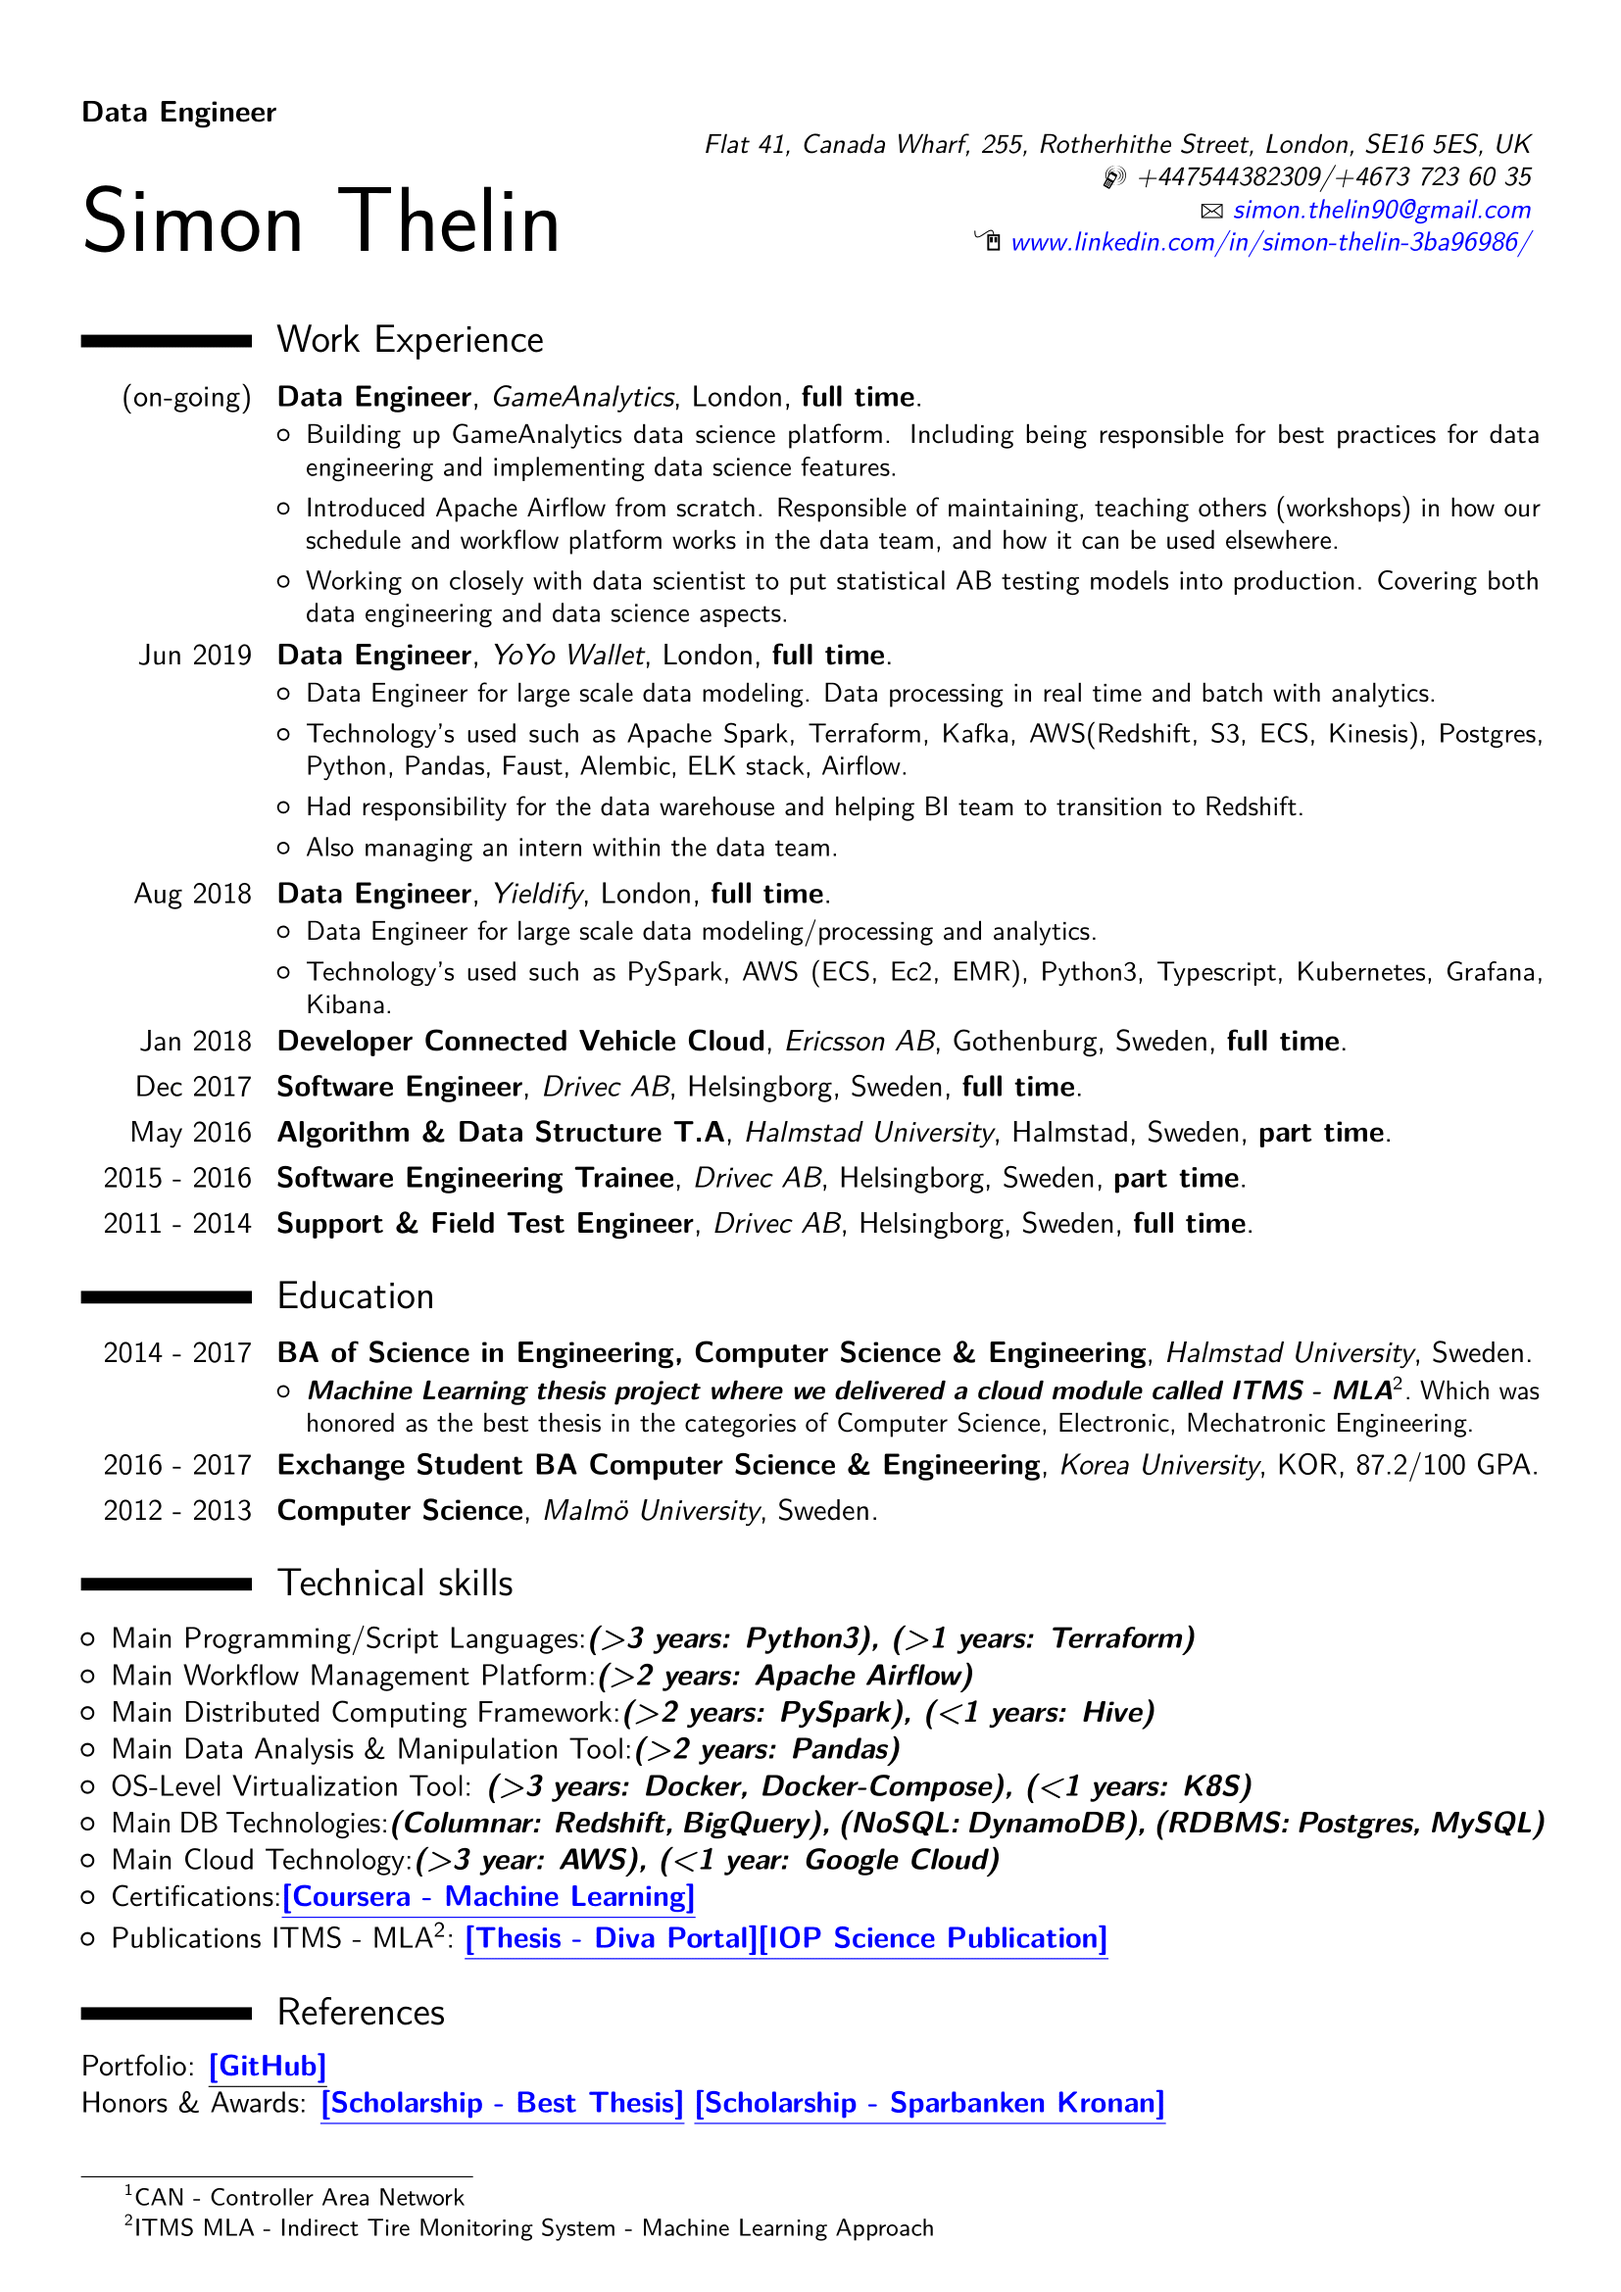
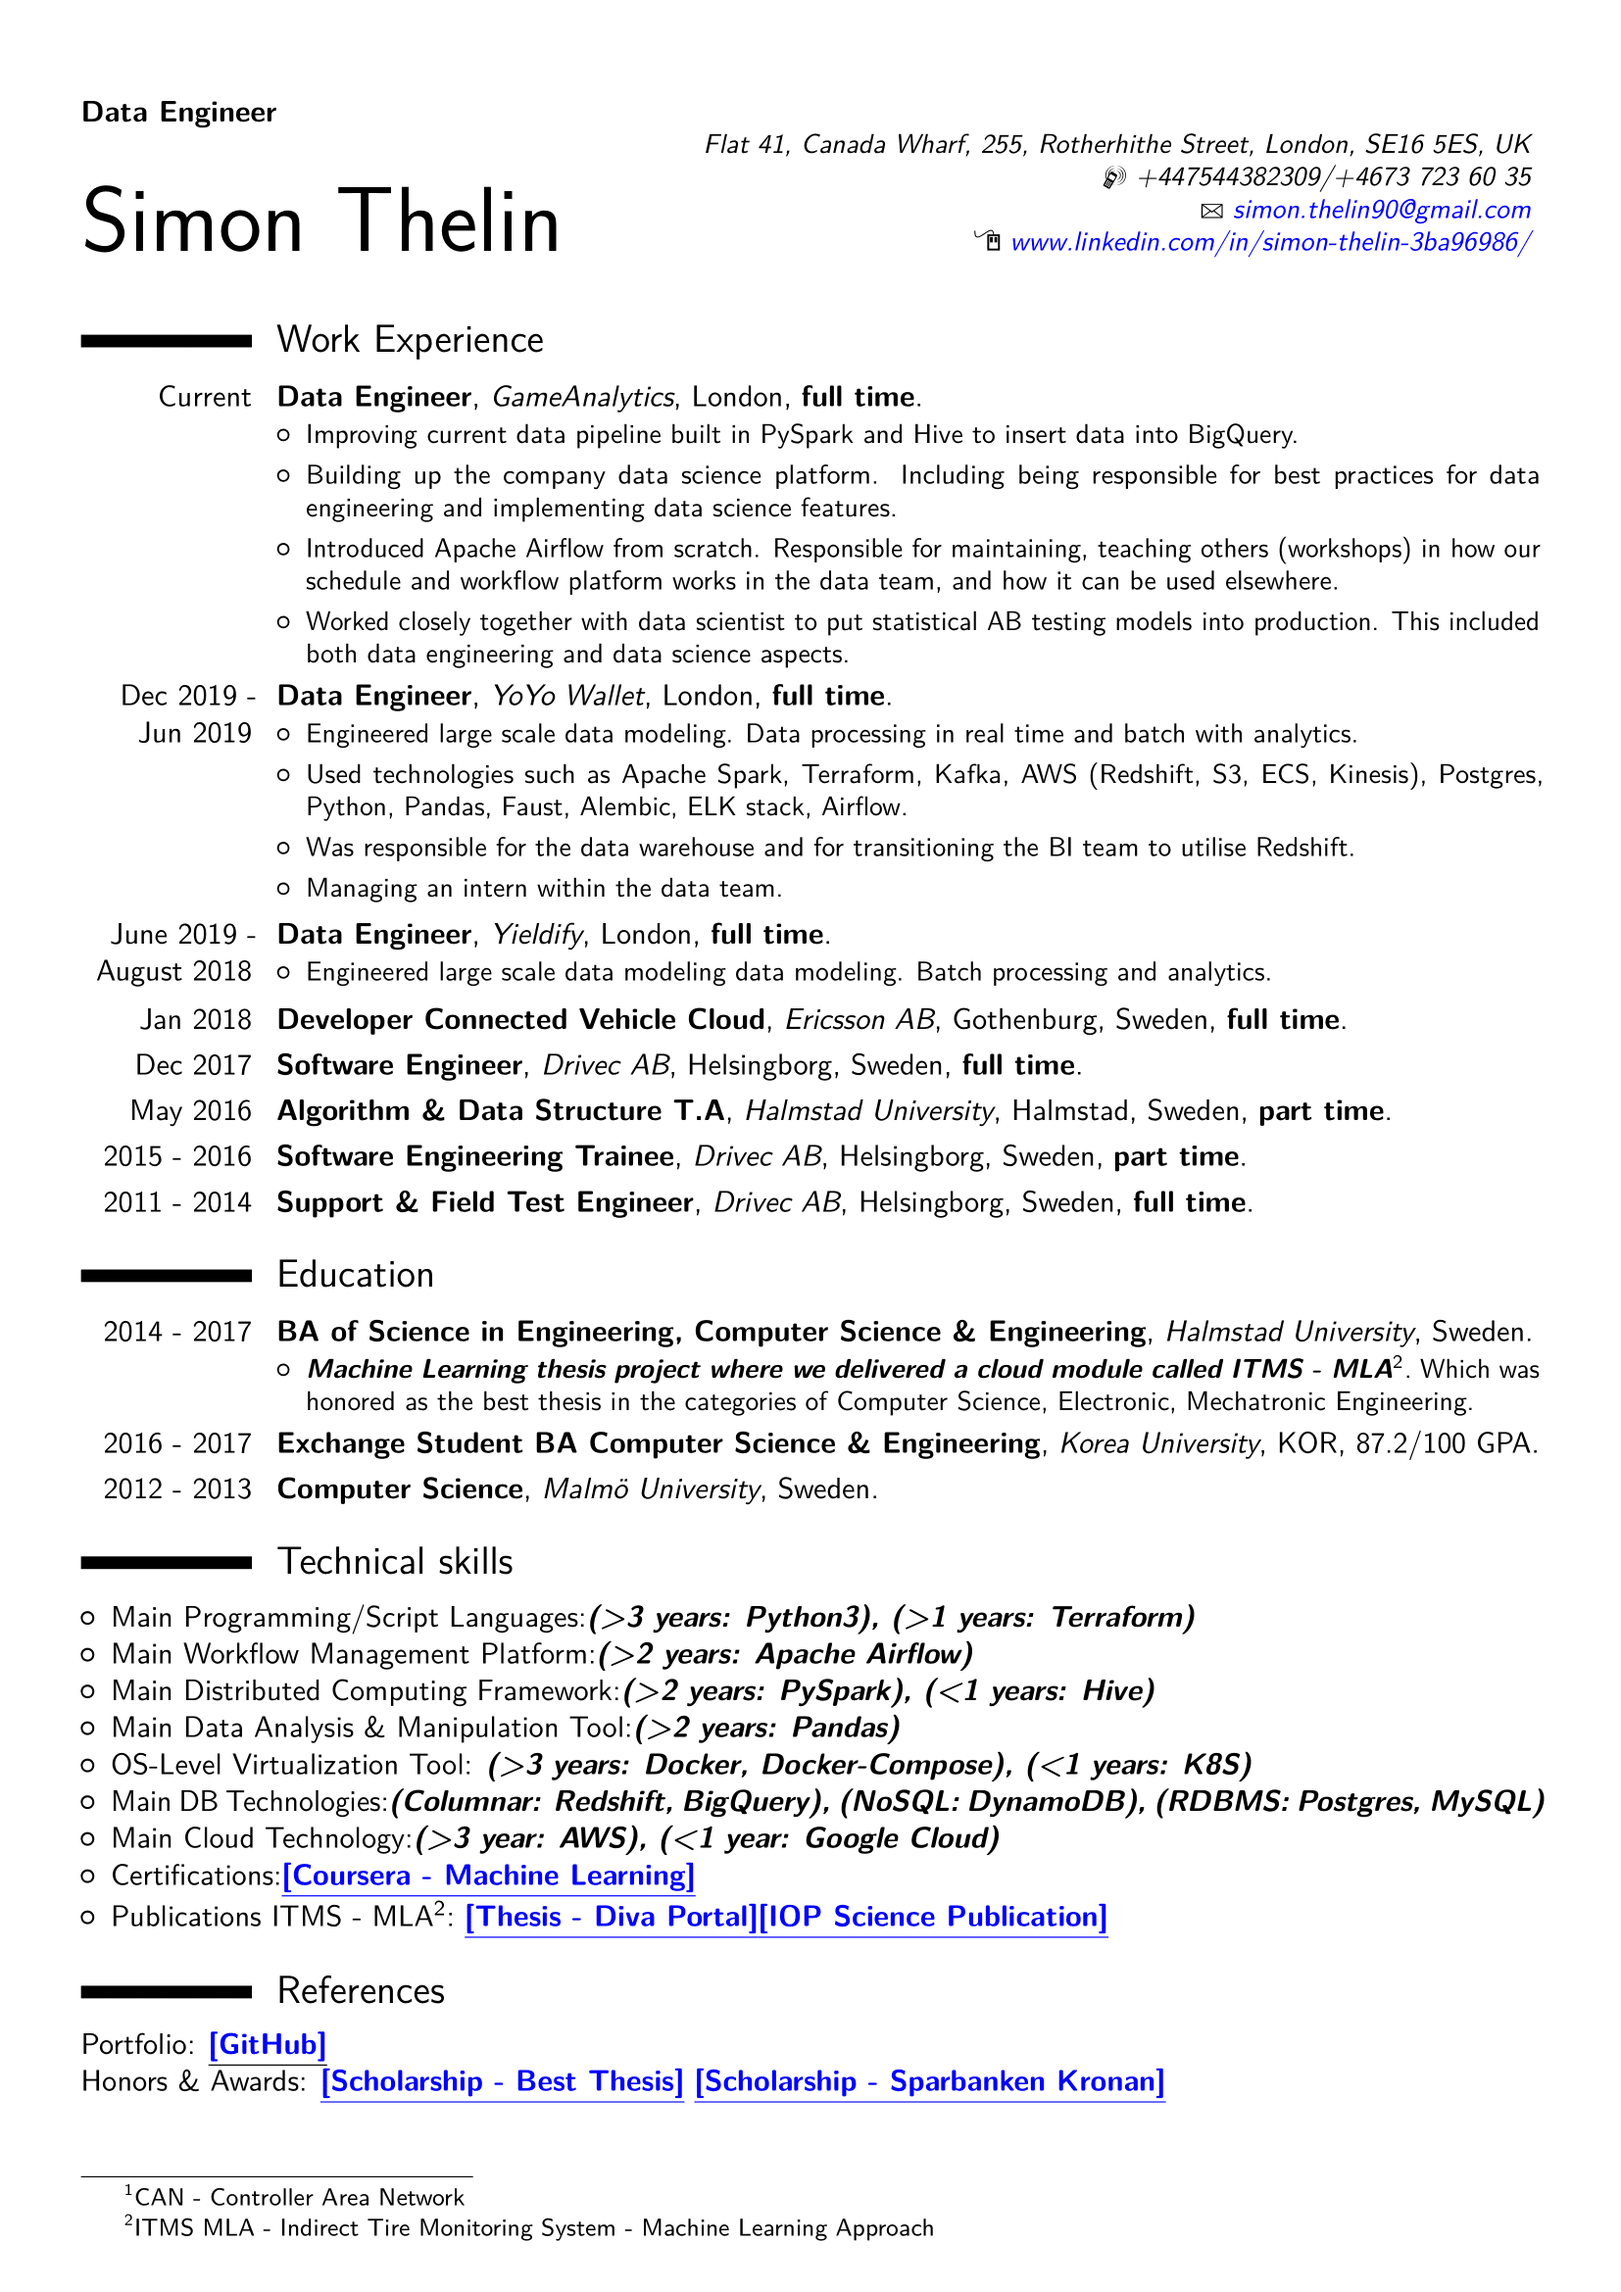
Update-CV-Start-End-Date

Changed region(s): [[0.0308, 0.1873, 0.9559, 0.9363], [0.0925, 0.156, 0.1542, 0.1873]]

diff --git a/THELIN_SIMON_CV.tex b/THELIN_SIMON_CV.tex
@@ -73,30 +73,30 @@
 %I possess professional qualifications in programming where i have delivered applications both in Android and hardware close software. I am always on point and loyal towards my duties.
 \section{Work Experience}
 
-\cventry{(on-going)}{Data Engineer}{GameAnalytics}{London}{\textbf{full time}}{
+\cventry{Current}{Data Engineer}{GameAnalytics}{London}{\textbf{full time}}{
 \begin{itemize}
     \itemsep0.3em
-    \item Building up GameAnalytics data science platform. Including being responsible for best practices for data engineering and implementing data science features.
-    \item Technology's used such as, Python3 with type enforcement. Data science and data manipulation frameworks: pymc3, Pandas, numpy, scipy. Distributed data processing frameworks: PySpark. Infrastructure: Terraform, docker, docker-compose. Schedule and workflow platform: Apache Airflow. Database technologies: MySQL, Apache Druid, Redshift, DynamoDB. Cloud: AWS(S3, EC2, EMR, SQS), Google(Big Query)
-    \item Working on closely with data scientist to put statistical AB testing models into production. Covering both data engineering and data science aspects.
+    \item Improving current data pipeline built in PySpark and Hive to insert data into BigQuery.
+    \item Building up the company data science platform. Including being responsible for best practices for data engineering and implementing data science features.
+    \item Introduced Apache Airflow from scratch. Responsible for maintaining, teaching others (workshops) in how our schedule and workflow platform works in the data team, and how it can be used elsewhere.
+    \item Worked closely together with data scientist to put statistical AB testing models into production. This included both data engineering and data science aspects.
 \end{itemize} 
 }
 
-\cventry{Jun 2019}{Data Engineer}{YoYo Wallet}{London}{\textbf{full time}}{
+\cventry{Dec 2019 - Jun 2019}{Data Engineer}{YoYo Wallet}{London}{\textbf{full time}}{
 \begin{itemize}
     \itemsep0.3em
-    \item Data Engineer for large scale data modeling. Data processing in real time and batch with analytics. 
-    \item Technology's used such as Apache Spark, Terraform, Kafka, AWS(Redshift, S3, ECS, Kinesis), Postgres, Python, Pandas, Faust, Alembic, ELK stack, Airflow.
-    \item Had responsibility for the data warehouse and helping BI team to transition to Redshift.
-    \item Also managing an intern within the data team.
+    \item Engineered large scale data modeling. Data processing in real time and batch with analytics. 
+    \item Used technologies such as Apache Spark, Terraform, Kafka, AWS (Redshift, S3, ECS, Kinesis), Postgres, Python, Pandas, Faust, Alembic, ELK stack, Airflow.
+    \item Was responsible for the data warehouse and for transitioning the BI team to utilise Redshift.
+    \item Managing an intern within the data team.
 \end{itemize} 
 }
 
-\cventry{Aug 2018}{Data Engineer}{Yieldify}{London}{\textbf{full time}}{
+\cventry{June 2019 - August 2018}{Data Engineer}{Yieldify}{London}{\textbf{full time}}{
 \begin{itemize}
     \itemsep0.3em
-    \item Data Engineer for large scale data modeling/processing and analytics.
-    \item Technology's used such as PySpark, AWS (ECS, Ec2, EMR), Python3, Typescript, Kubernetes, Grafana, Kibana.
+    \item Engineered large scale data modeling data modeling. Batch processing and analytics.
 \end{itemize}}
 
 \cventry{Jan 2018}{Developer Connected Vehicle Cloud}{Ericsson AB}{Gothenburg, Sweden}{\textbf{full time}}{}
@@ -130,6 +130,7 @@
 \section{Technical skills}
 \begin{itemize}
     \item Main Programming/Script Languages:\textbf{\textit{(>3 years: Python3), (>1 years: Terraform)}}
+    \item Main Workflow Management Platform:\textbf{\textit{(>2 years: Apache Airflow)}}
     \item Main Distributed Computing Framework:\textbf{\textit{(>2 years: PySpark), (<1 years: Hive)}}
     \item Main Data Analysis \& Manipulation Tool:\textbf{\textit{(>2 years: Pandas)}}
     \item OS-Level Virtualization Tool: \textbf{\textit{(>3 years: Docker, Docker-Compose), (<1 years: K8S)}}
